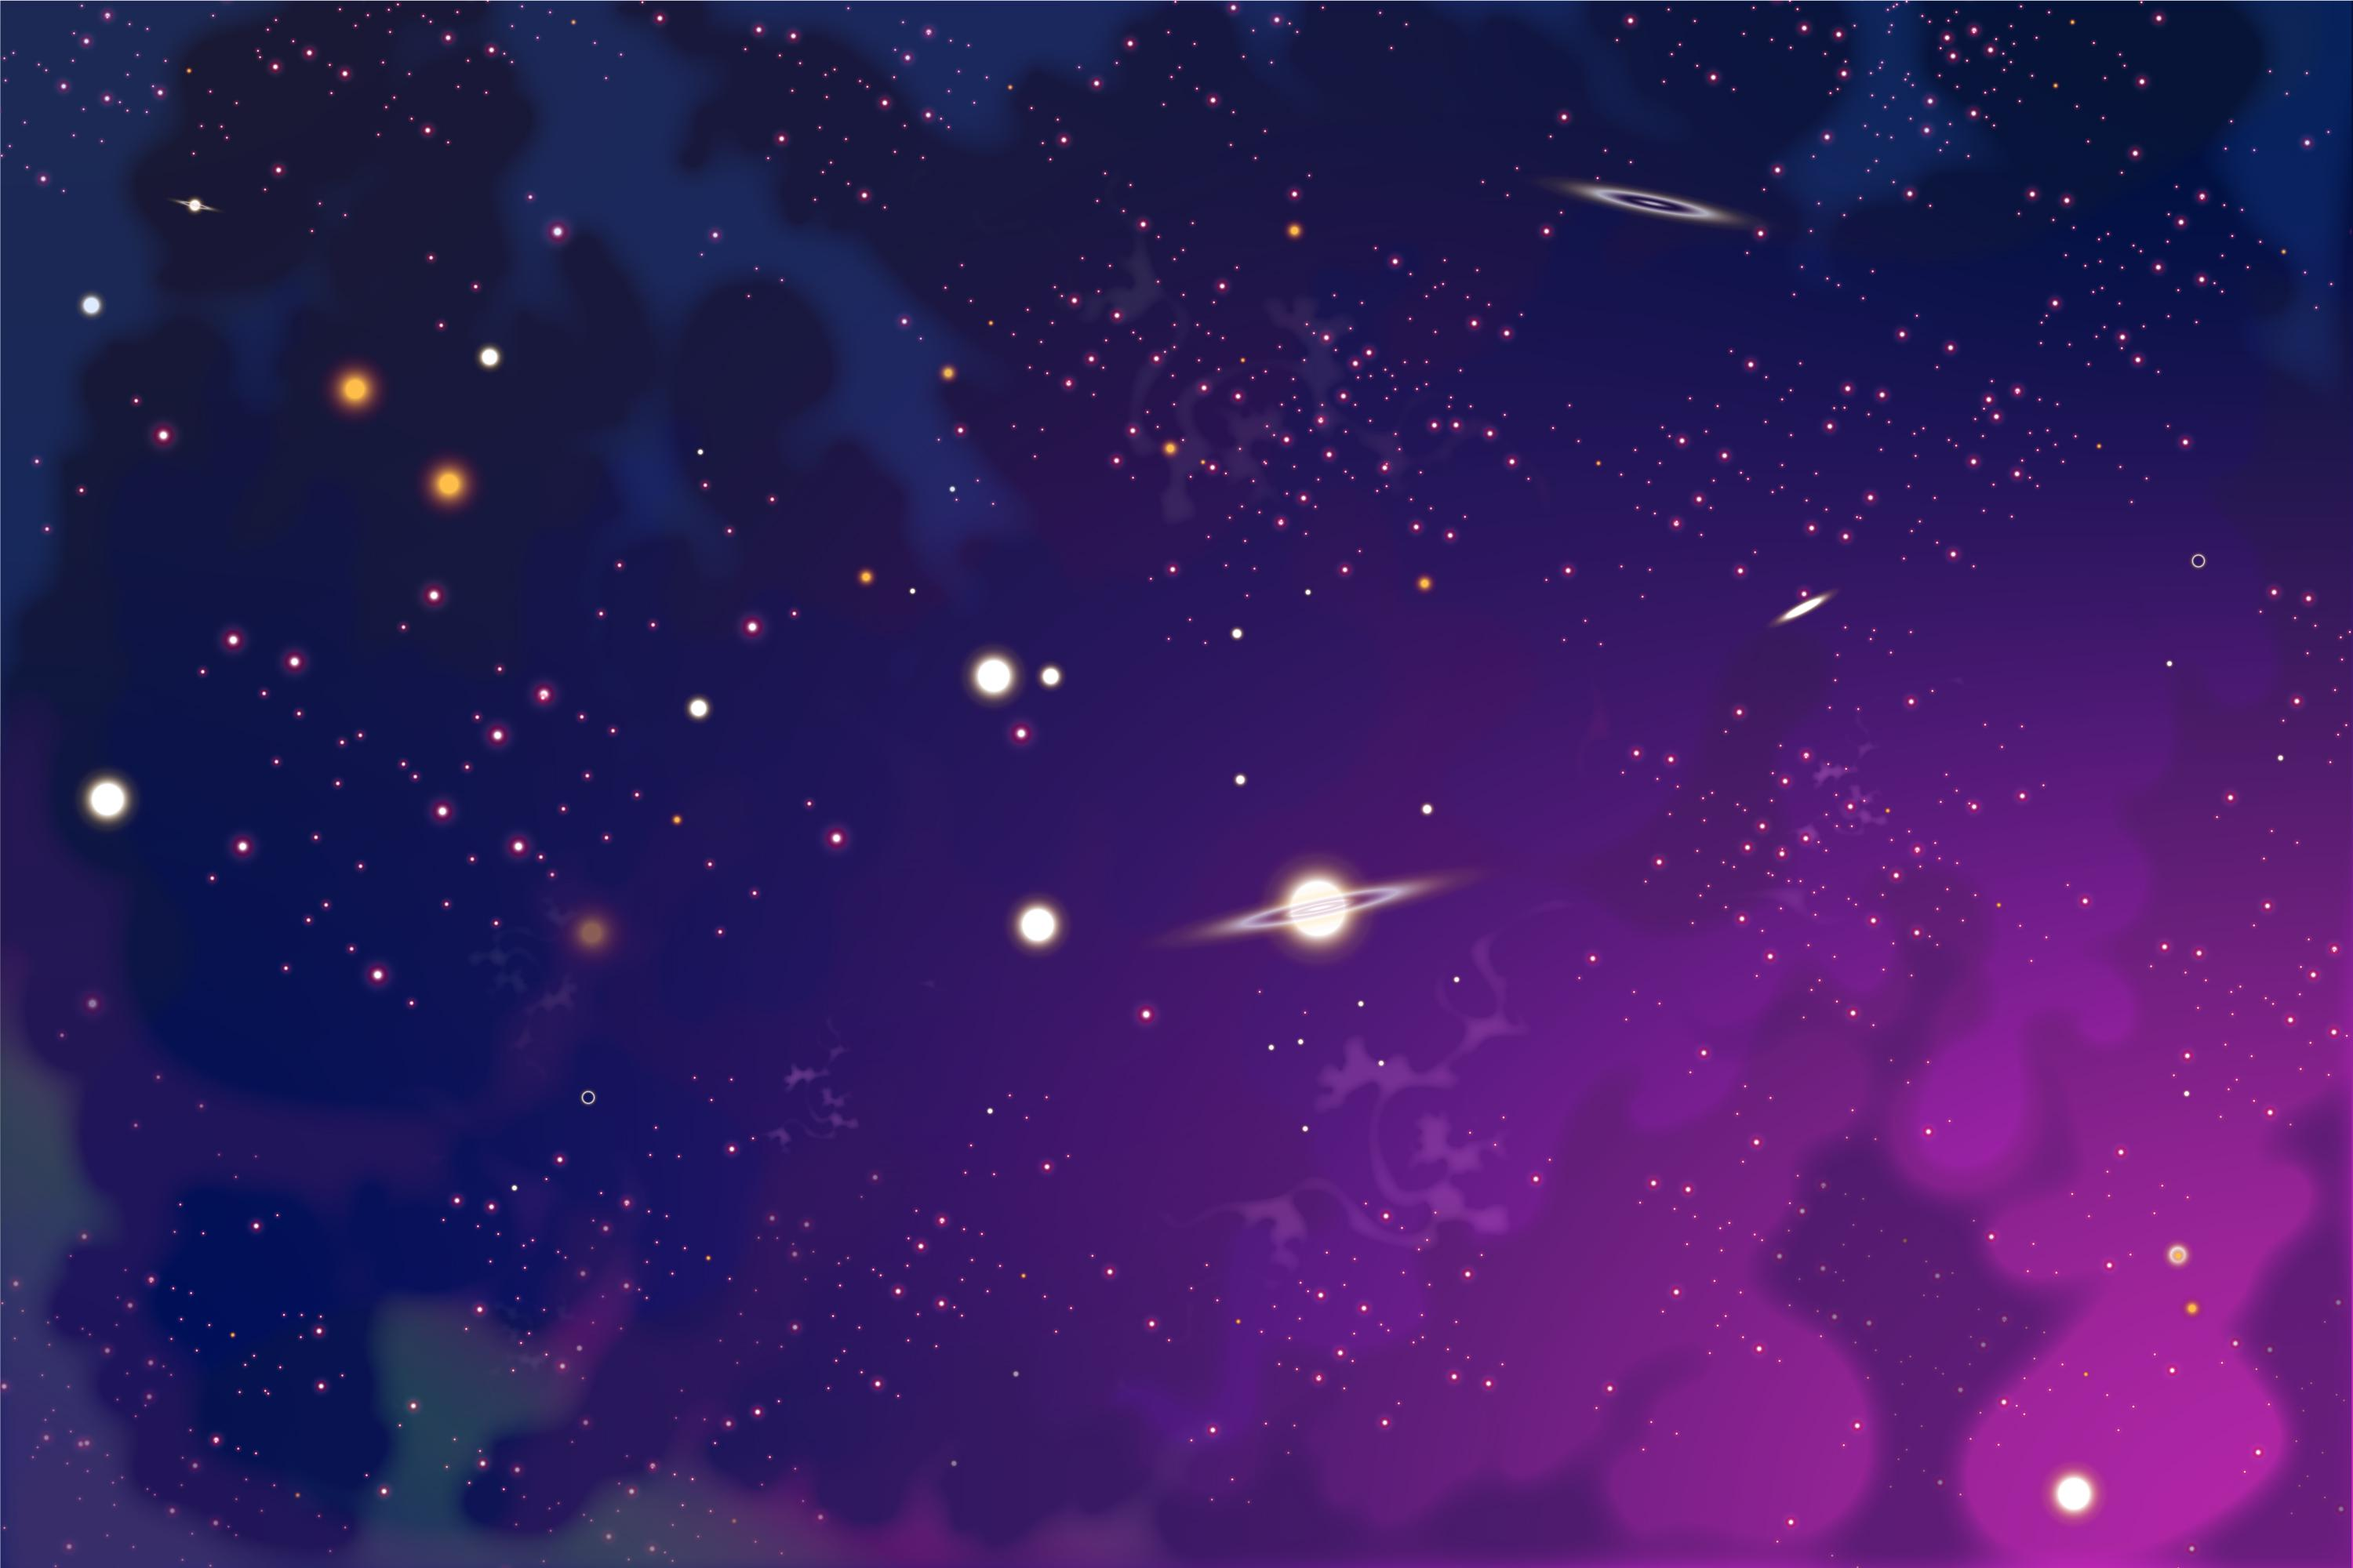
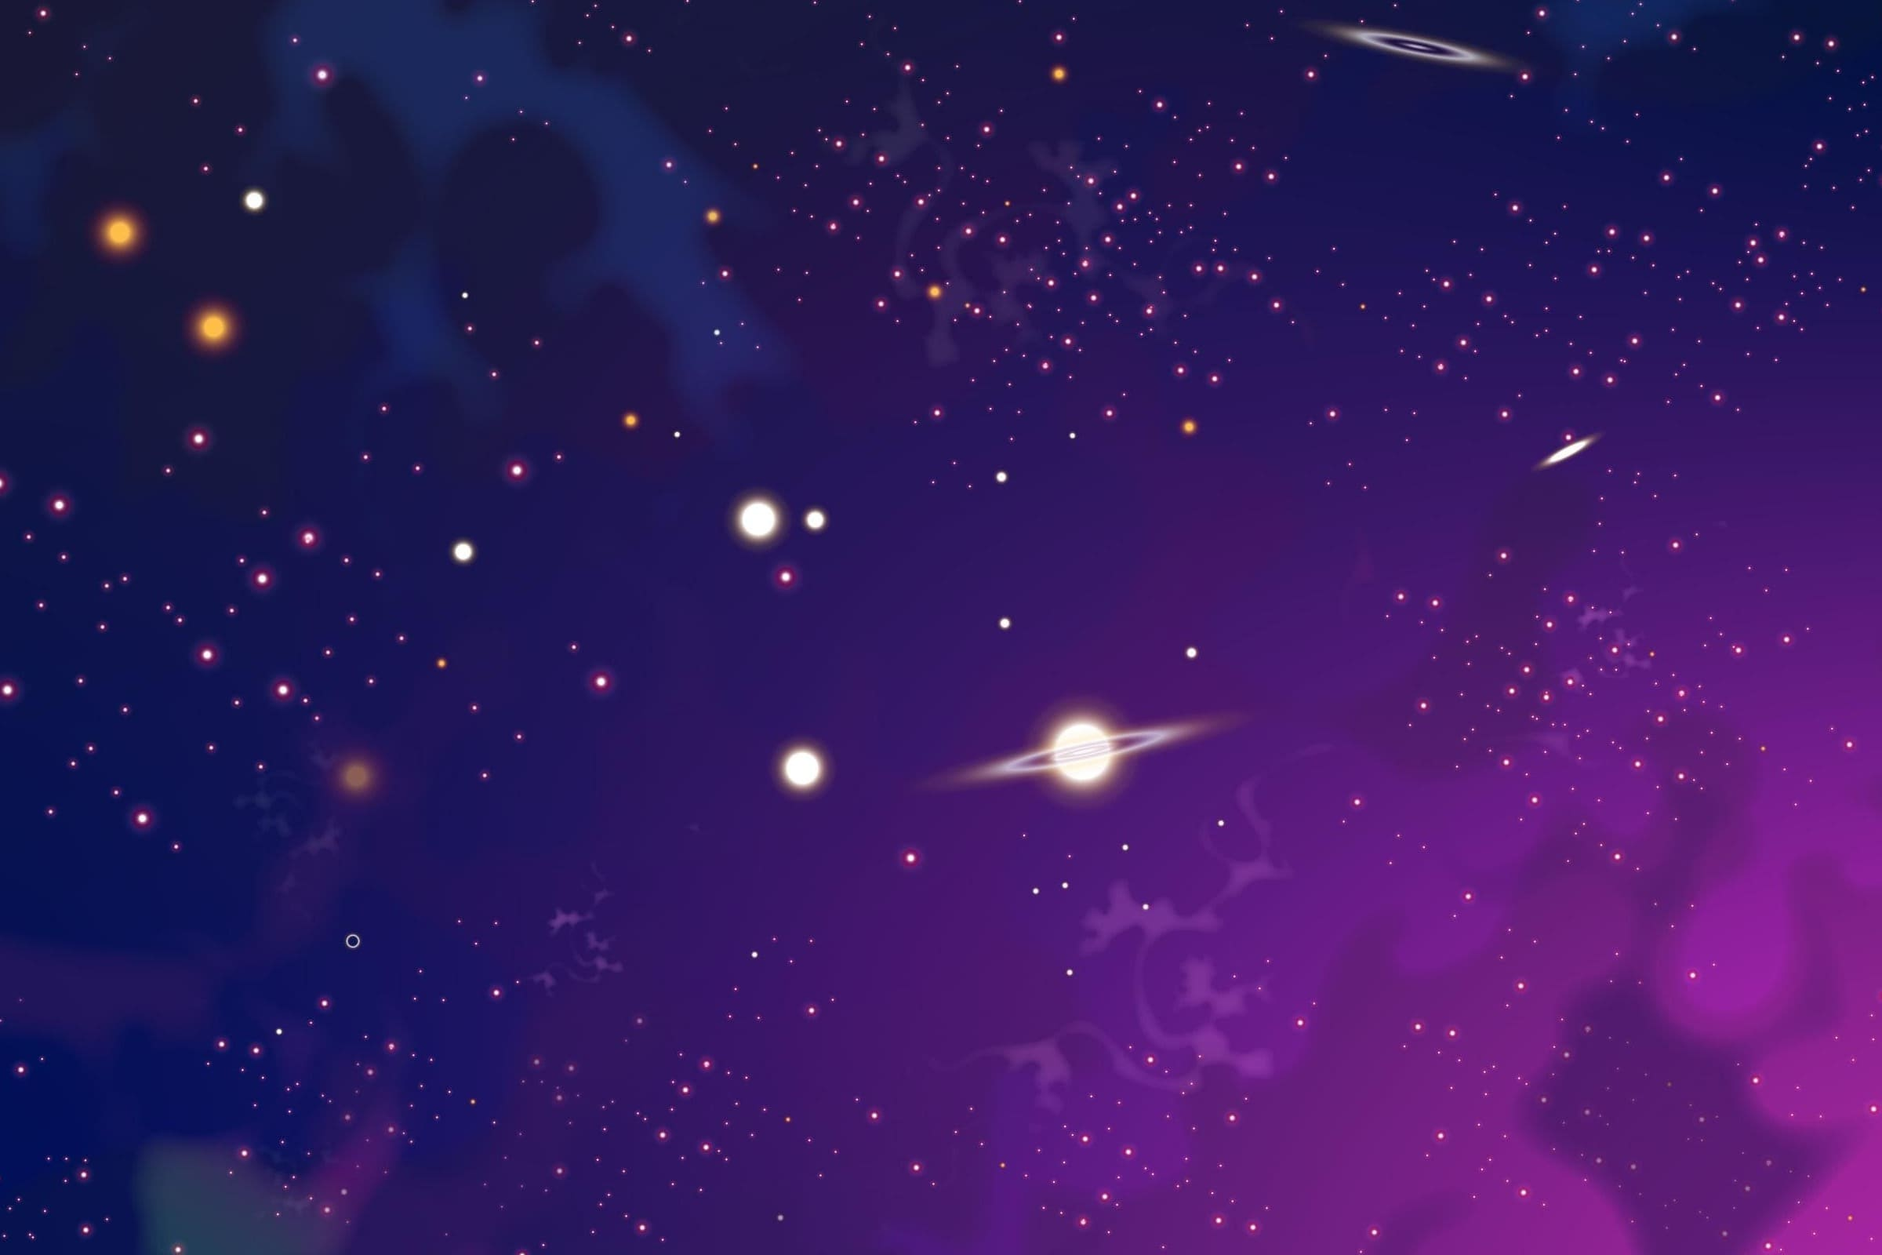
Update background images

diff --git a/index.html b/index.html
@@ -268,7 +268,7 @@
                 <div class="col-xl-6">
                   <div id="astronaut_img" class="responsive_450_480">
                     <img
-                      src="/assets/images/home/astronaut_450_480/background.svg"
+                      src="/assets/images/home/astronaut_450_480/background.jpg"
                       class="astronaut-background"
                       alt="Astronaut"
                     />
@@ -284,7 +284,7 @@
                   </div>
                   <div id="astronaut_img" class="responsive_300_480">
                     <img
-                      src="/assets/images/home/astronaut_300_480/background.svg"
+                      src="/assets/images/home/astronaut_300_480/background.jpg"
                       class="astronaut-background"
                       alt="Astronaut"
                     />
